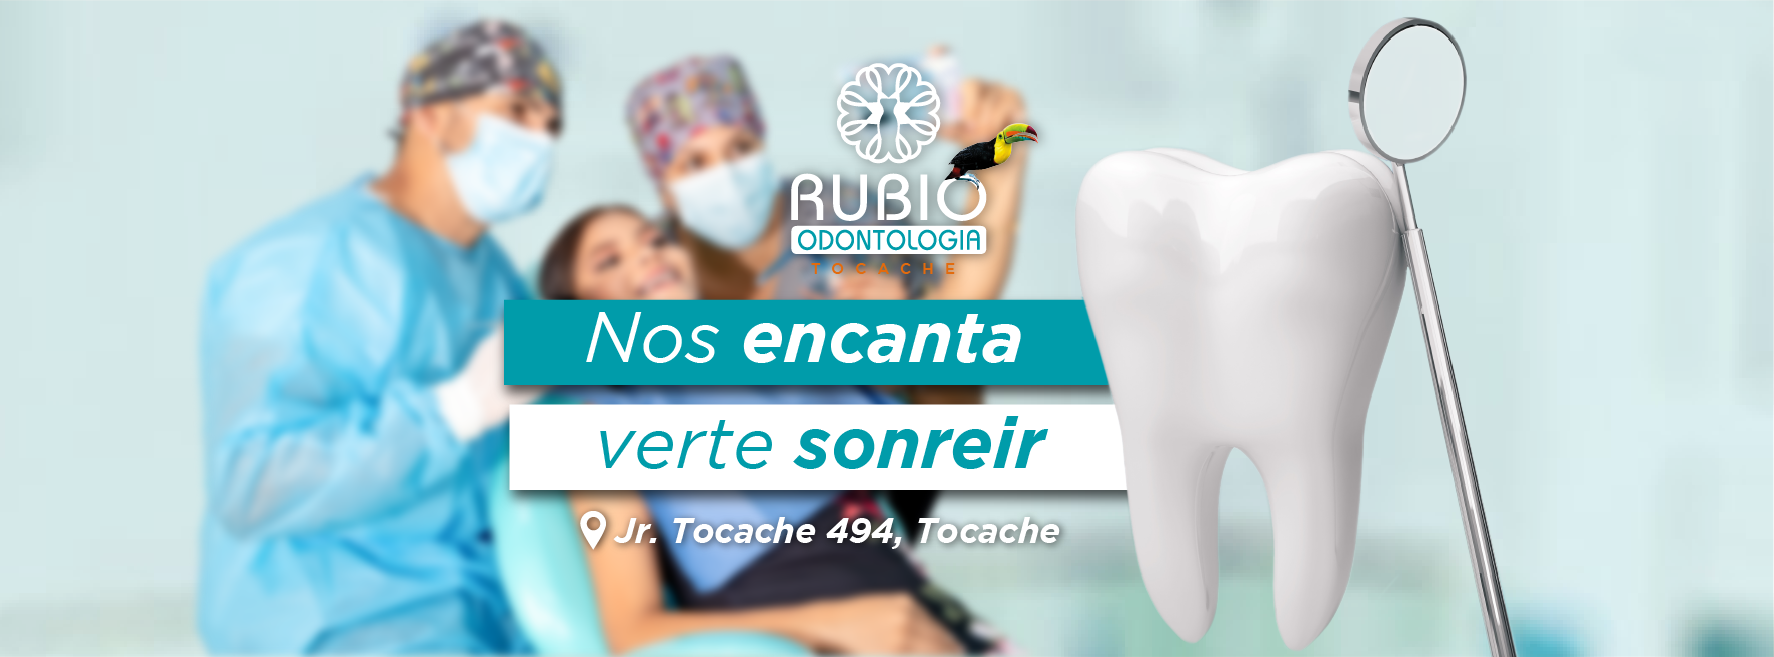
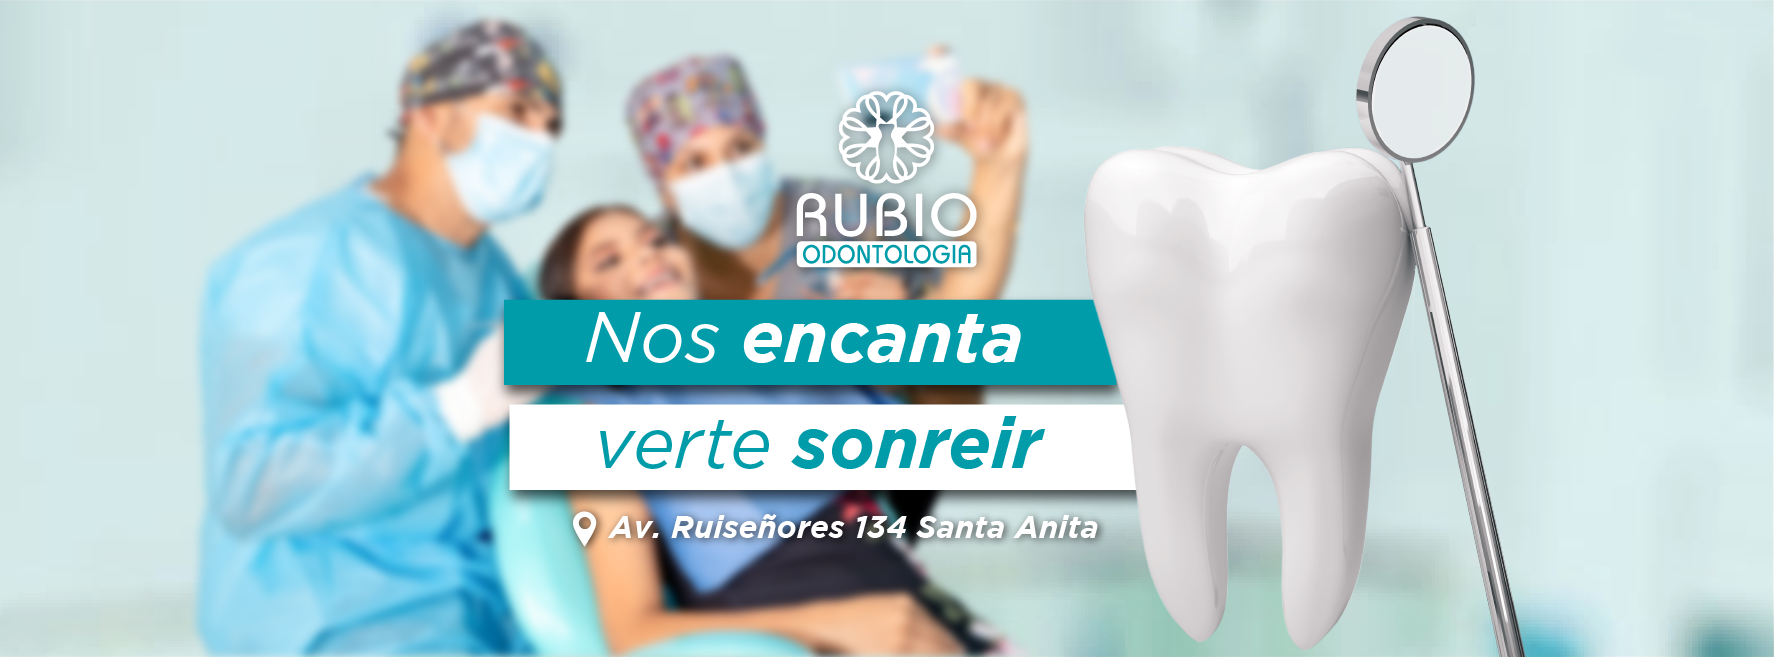
loading

diff --git a/Santa_Anita.html b/Santa_Anita.html
@@ -183,11 +183,11 @@
                 <div id="carouselExampleControls" class="carousel slide" data-bs-ride="carousel">
                     <div class="carousel-inner">
                         <div class="carousel-item active">
-                            <img src="/images/source-tocache/noticia-carrusel1.jpg" class="clase-image-vertical redondear estilo-bordes"
+                            <img src="/images/source-lima/noticia-carrusel1.jpg" class="clase-image-vertical redondear estilo-bordes"
                                 alt="jpg">
                         </div>
                         <div class="carousel-item">
-                            <img src="/images/source-tocache/noticia-carrusel2.png" class="clase-image-vertical redondear estilo-bordes" alt="jpg">
+                            <img src="/images/source-lima/noticia-carrusel2.jpg" class="clase-image-vertical redondear estilo-bordes" alt="jpg">
                         </div>
                     </div>
                     <button class="carousel-control-prev" type="button" data-bs-target="#carouselExampleControls"
@@ -214,7 +214,7 @@
                         </p>
                     </div>
                     <div class="col-md-8 p-0">
-                        <img class="clase-image-vertical redondear" src="/images/source-tocache/noticia-portada1.png" alt="jpg">
+                        <img class="clase-image-vertical redondear" src="/images/source-lima/noticia-portada1.png" alt="jpg">
                     </div>
                 </div>
 
@@ -226,7 +226,7 @@
                         </p>
                     </div>
                     <div class="col-md-8 p-0">
-                        <img class="clase-image-vertical redondear" src="/images/source-tocache/noticia-portada2.png" alt="">
+                        <img class="clase-image-vertical redondear" src="/images/source-lima/noticia-portada2.jpg" alt="">
                     </div>
                 </div>
 
